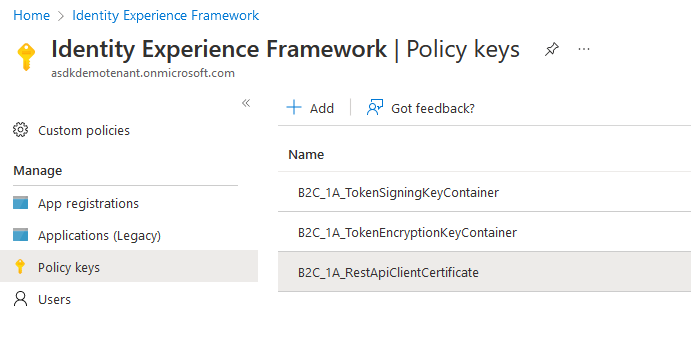
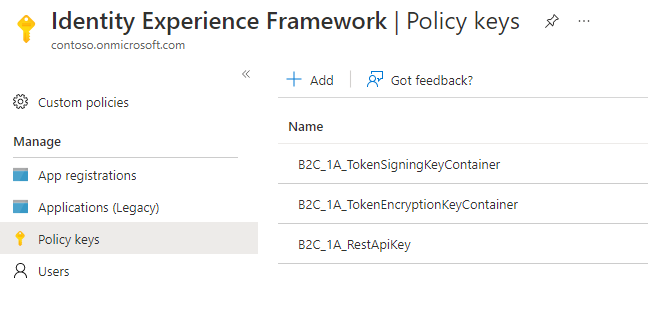
Update documentation to add in api key and remove reference of certificate

diff --git a/docs/azure-saas-docs/content/en/components/Identity/identity-framework-setup-manual.md b/docs/azure-saas-docs/content/en/components/Identity/identity-framework-setup-manual.md
@@ -133,27 +133,9 @@ Note: Collaborators are other developers you wish to help manage your services, 
 
 ---
 
-### Step 5. Create self-signed certificate
+### Step 5. Create a random API Key 
 
->Note: A self-signed certificate is not recommended for production environments. Read more [here](https://azure.github.io/azure-saas/components/identity/permissions-service/#authentication).
-
-- Create an RSA self-signed certificate to be referenced and uploaded to your Azure AD B2C Tenant
-- The .pfx file will be uploaded in a later step to your Azure AD B2C to allow it access to integrate with your Permissions API
-- OpenSSL with [Powershell Core (v7.0+)](https://github.com/PowerShell/PowerShell) Example:
-
-```
-$pswd = Read-Host -Prompt "Please enter a password to encrypt the self signed certificate with"
-
-# Create a new certificate in .crt format with the subject name as *.azurewebsites.net. You could also provide a specific subject name of your permissions api.
-openssl req -newkey rsa:4096 -x509 -sha256 -days 365 -nodes -out certificate.crt -keyout certificate.key -subj         "/CN=*.azurewebsites.net"
-
-# Export the .crt and .key to a .pfx format
-openssl pkcs12 -export -out selfSignedCertificate.pfx -inkey certificate.key -in certificate.crt -password pass:$pswd
-
-# Encode pfx to base 64 string to reference in step 13. You may output this when you're ready to copy it with `Write-Host $pfxString`
-$pfxBytes = Get-Content "selfSignedCertificate.pfx" -AsByteStream
-$pfxString = [System.Convert]::ToBase64String($pfxBytes)
-```
+An API Key is required to secure communication with the Permissions API. We suggest using a random string at least 20 characters in length consisting of a good mix of uppercase, lowercase, numbers and special characters. 
 
 ---
 
@@ -176,11 +158,11 @@ $pfxString = [System.Convert]::ToBase64String($pfxBytes)
   - Name: TokenEncryptionKeyContainer
   - Key type: RSA
   - Key usage: Encryption
-- RestApiClientCertificate
-  - Options: Upload
-  - Name: *.azurewebsites.net
-  - File upload: (The .pfx created in step 5)
-  - Password: (The password created in step 5)
+- RestApiKey
+  - Options: Manual 
+  - Name: RestApiKey 
+  - Secret: (The API Key you created in step 5)
+  - Key usage: Signature
 
 ---
 
@@ -209,7 +191,7 @@ $pfxString = [System.Convert]::ToBase64String($pfxBytes)
 | azureAdB2cTenantIdSecretValue| (Your Tenant Subscription ID found on your AD B2C dashboard)|
 | azureAdB2cPermissionsApiClientIdSecretValue| (The Client ID found on your registered Permissions API app page)|
 | azureAdB2cPermissionsApiClientSecretSecretValue| (The Client Secret Value created in step 8)|
-| permissionsApiSslThumbprintSecretValue| (Thumbprint created in step 5)|
+| permissionsApiApiKeySecretValue | (API Key created in step 5)|
 | saasProviderName| (Select a provider name. This name will be used to name the Azure Resources. (e.g. contoso, myapp). Max Length is 8 characters.)|
 | saasEnvironment| (Select an environment name. (e.g. 'prd', 'stg', 'dev', 'tst'))|
 | saasInstanceNumber| (Select an instance number. This number will be appended to most Azure Resources created. (e.g. 001, 002, 003))|
@@ -241,7 +223,7 @@ $pfxString = [System.Convert]::ToBase64String($pfxBytes)
     "azureAdB2cPermissionsApiClientSecretSecretValue": {
       "value": "FooBar"
     },
-    "permissionsApiSslThumbprintSecretValue": {
+    "permissionsApiApiKeySecretValue": {
       "value": "FooBar"
     },
     "saasProviderName": {
@@ -322,8 +304,7 @@ $pfxString = [System.Convert]::ToBase64String($pfxBytes)
 | azureAdB2cSignupAdminClientSecretSecretValue| (Secret value created in step 4)|
 | azureAdB2cTenantIdSecretValue| (Your Tenant Subscription ID found on your AD B2C dashboard)|
 | permissionsApiHostName| (The FQDN of the Permissions API) |
-| permissionsApiCertificateSecretValue| (Certificate encoded to base64 string generated in step 5)|
-| permissionsApiCertificatePassphraseSecretValue| (Certificate password generated in step 5)|
+| permissionsApiApiKeySecretValue | (API Key generated in step 5)|
 | saasAppApiScopes| (space delimited string of SaaS App Api scope names (e.g. "test.scope tenant.delete tenant.global.delete tenant.global.read tenant.global.write tenant.read tenant.write"))                         |
 | saasProviderName| (created in step 8)                      |
 | saasEnvironment| (created in step 8)|
@@ -377,17 +358,11 @@ $pfxString = [System.Convert]::ToBase64String($pfxBytes)
     "azureAdB2cPermissionsApiClientSecretSecretValue": {
       "value": "FooBar"
     },
-    "permissionsApiSslThumbprintSecretValue": {
-      "value": "FooBar"
-    },
     "permissionsApiHostName": {
       "value": "https://asdkdemopermissions.com"
     },
-    "permissionsApiCertificateSecretValue": {
+    "permissionsApiApiKeySecretValue": {
       "value": "FooBar"
-    },
-    "permissionsApiCertificatePassphraseSecretValue": {
-      "value": "FooBar1"
     },
     "saasAppApiScopes": {
       "value": "test.scope tenant.delete tenant.global.delete tenant.global.read tenant.global.write tenant.read tenant.write"

diff --git a/docs/azure-saas-docs/content/en/components/Identity/permissions-service.md b/docs/azure-saas-docs/content/en/components/Identity/permissions-service.md
@@ -35,10 +35,7 @@ When deployed to Azure, the application is configured to load its secrets from [
 
 ### Authentication
 
-The Permissions Service is secured using [TLS Mutual Authentication](https://docs.microsoft.com/en-us/aspnet/core/security/authentication/certauth?view=aspnetcore-6.0#configure-certificate-validation) (Certificate Authentication). The application layer is configured to verify the authenticity of the certificate by comparing the thumbprint of the certificate against a configuration value. For TLS Mutual Authentication to work properly, the web server must also be configured to forward the certificate to the application layer. This is done for you if you deploy the application following the steps in the [Quick Start](../../../quick-start) guide, but if you choose to run the code in an environment you provision, you will need to do [this configuration](https://docs.microsoft.com/en-us/azure/app-service/app-service-web-configure-tls-mutual-auth) yourself.
-
-> **Important!**  
-> The certificate that gets deployed out of the box by following the Quick Start is a self signed certificate. Self signed certificates are not meant for production use, and it is highly recommended that you replace this certificate with one signed by a Certificate Authority before using this module in production.
+The Permissions Service is secured using API Key Authentication. The API Key is set using the `AppSettings:ApiKey` secret and there is middleware on the API that will verify that all incoming requests have an API key that matches on the `x-api-key` header. If you deploy the application following the steps in the [Quick Start](../../../quick-start) guide, an API key is randomly generated for you and uploaded to Azure Key Vault.
 
 ### Database
 
@@ -54,10 +51,7 @@ The Permissions Service uses [Swashbuckle](https://www.nuget.org/packages/Swashb
 
 ## FAQ and Design Considerations
 
-- Q: Why did we choose to secure the permissions service with certificate authentication over API Keys/JWT Tokens/Another Method?
-  - A: The communication between Azure AD B2C (our default Identity Provider) and the permissions service must be secured with either [Basic or Certificate Auth](https://docs.microsoft.com/en-us/azure/active-directory-b2c/add-api-connector-token-enrichment?pivots=b2c-custom-policy#configure-the-restful-api-technical-profile) and it is not considered best practice to use Basic authentication in a production environment.
-
 - Permissions are stored in the database in a single table (dbo.Permissions) with 3 pieces of data: Tenant ID, User ID (Email), and PermissionString. All 3 together make the row unique (i.e., you cannot have the same Permission for the same user on the same tenant more than once). Permissions are stored as a string (ex: Admin, User.Read, User.Write) for simplicity and extensibility. You may choose to store these in a separate database table and reference them by ID number if you have a large number of permissions and you want to enforce the types of permissions being assigned.
 - We have purposefully chosen to flow all CRUD operations on permissions through the [Admin Service](../../../components/admin-service). This is for a number of reasons:
-  1. It removes the burden of authorization from the permissions service. All the permissions service needs to worry about is accepting a valid certificate, which only the identity provider and admin service possess. For higher security applications, you may choose to preform more authorization checks before adding permissions
+  1. It removes the burden of authorization from the permissions service. All the permissions service needs to worry about is accepting a valid API Key, which only the identity provider and admin service possess. For higher security applications, you may choose to preform more authorization checks before adding permissions
   2. It simplifies the architecture. The frontend applications do not need to have any knowledge of the permissions service existing. When a tenant is created, the applications make 1 call to the admin service, and it handles the subsequent call to update the permissions records.

diff --git a/docs/azure-saas-docs/content/en/quick-start.md b/docs/azure-saas-docs/content/en/quick-start.md
@@ -28,8 +28,8 @@ Requirements:
 Running our pre-built docker image is the recommended way to set up the identity framework, as the image comes pre-installed with all the dependencies necessary for execution. To start, run the following commands:
 
 ```bash
-docker pull ghcr.io/azure/azure-saas/asdk-identity-setup:v1.0
-docker run -it -v "$(pwd):/data" --name asdk-b2c-deployment ghcr.io/azure/azure-saas/asdk-identity-setup:v1.0
+docker pull ghcr.io/azure/azure-saas/asdk-identity-setup:v1.1
+docker run -it -v "$(pwd):/data" --name asdk-b2c-deployment ghcr.io/azure/azure-saas/asdk-identity-setup:v1.1
 ```
 
 This will automatically pull and run the container image and its entrypoint is the [B2C-Create](https://github.com/Azure/azure-saas/blob/main/src/Saas.Identity/Saas.IdentityProvider/scripts/B2C-Create.ps1) powershell script.
@@ -86,7 +86,7 @@ Deploying to Azure is easy thanks to our pre-configured ARM (Azure Resource Mana
 
 This button will take you to the Azure portal and will pass it the ARM template. You will need the parameters file output from step 1.
 
-1. Click here: [![Deploy to Azure](https://aka.ms/deploytoazurebutton)](https://portal.azure.com/#create/Microsoft.Template/uri/https%3A%2F%2Fraw.githubusercontent.com%2FAzure%2Fazure-saas%2Fv1.0%2Fsrc%2FSaas.IaC%2Fmain.json).
+1. Click here: [![Deploy to Azure](https://aka.ms/deploytoazurebutton)](https://portal.azure.com/#create/Microsoft.Template/uri/https%3A%2F%2Fraw.githubusercontent.com%2FAzure%2Fazure-saas%2Fv1.1%2Fsrc%2FSaas.IaC%2Fmain.json).
 2. Select "Edit Parameters".
 3. Select "Load File" and upload the `parameters.json` file output from the Identity Framework Deployment (step 1 above). Click "Save". 
 4. From the dropdown, select the subscription and resource group you'd like to deploy the resources to.
